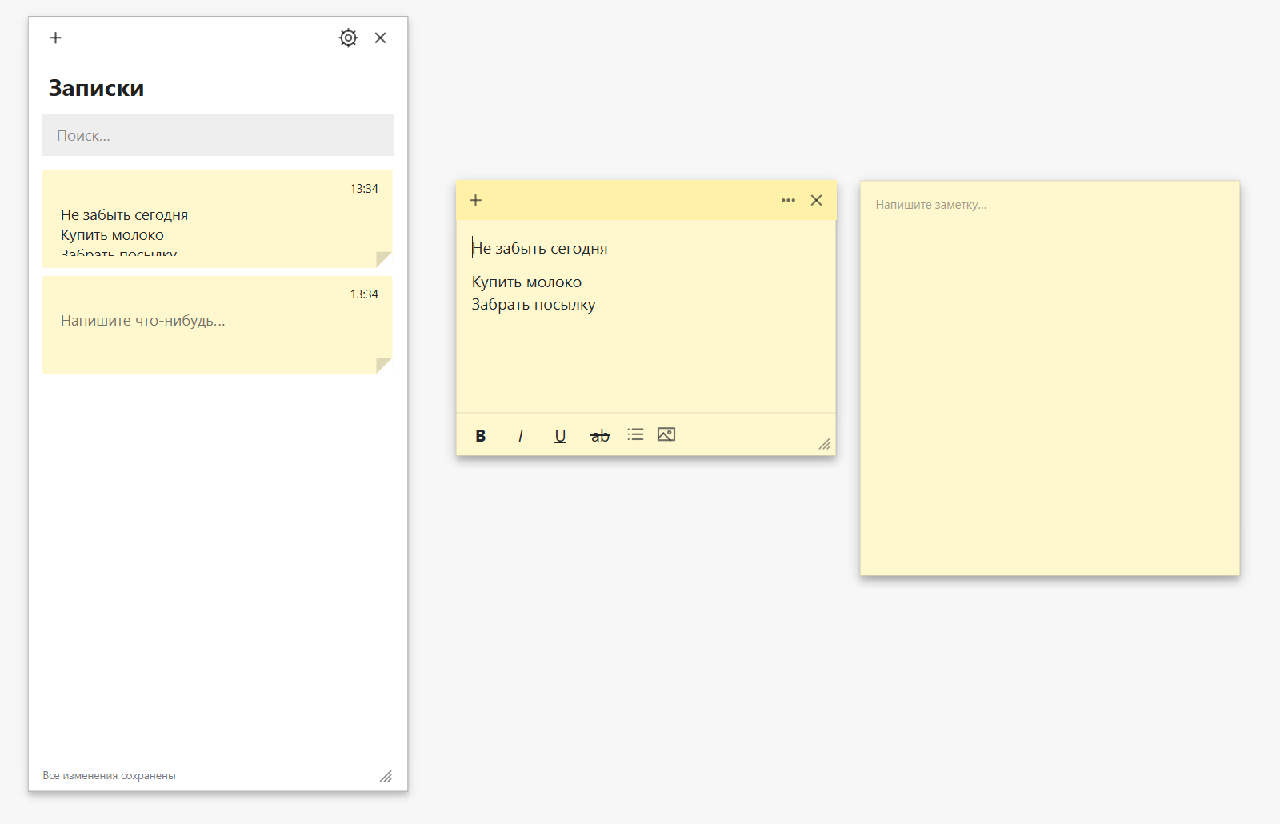
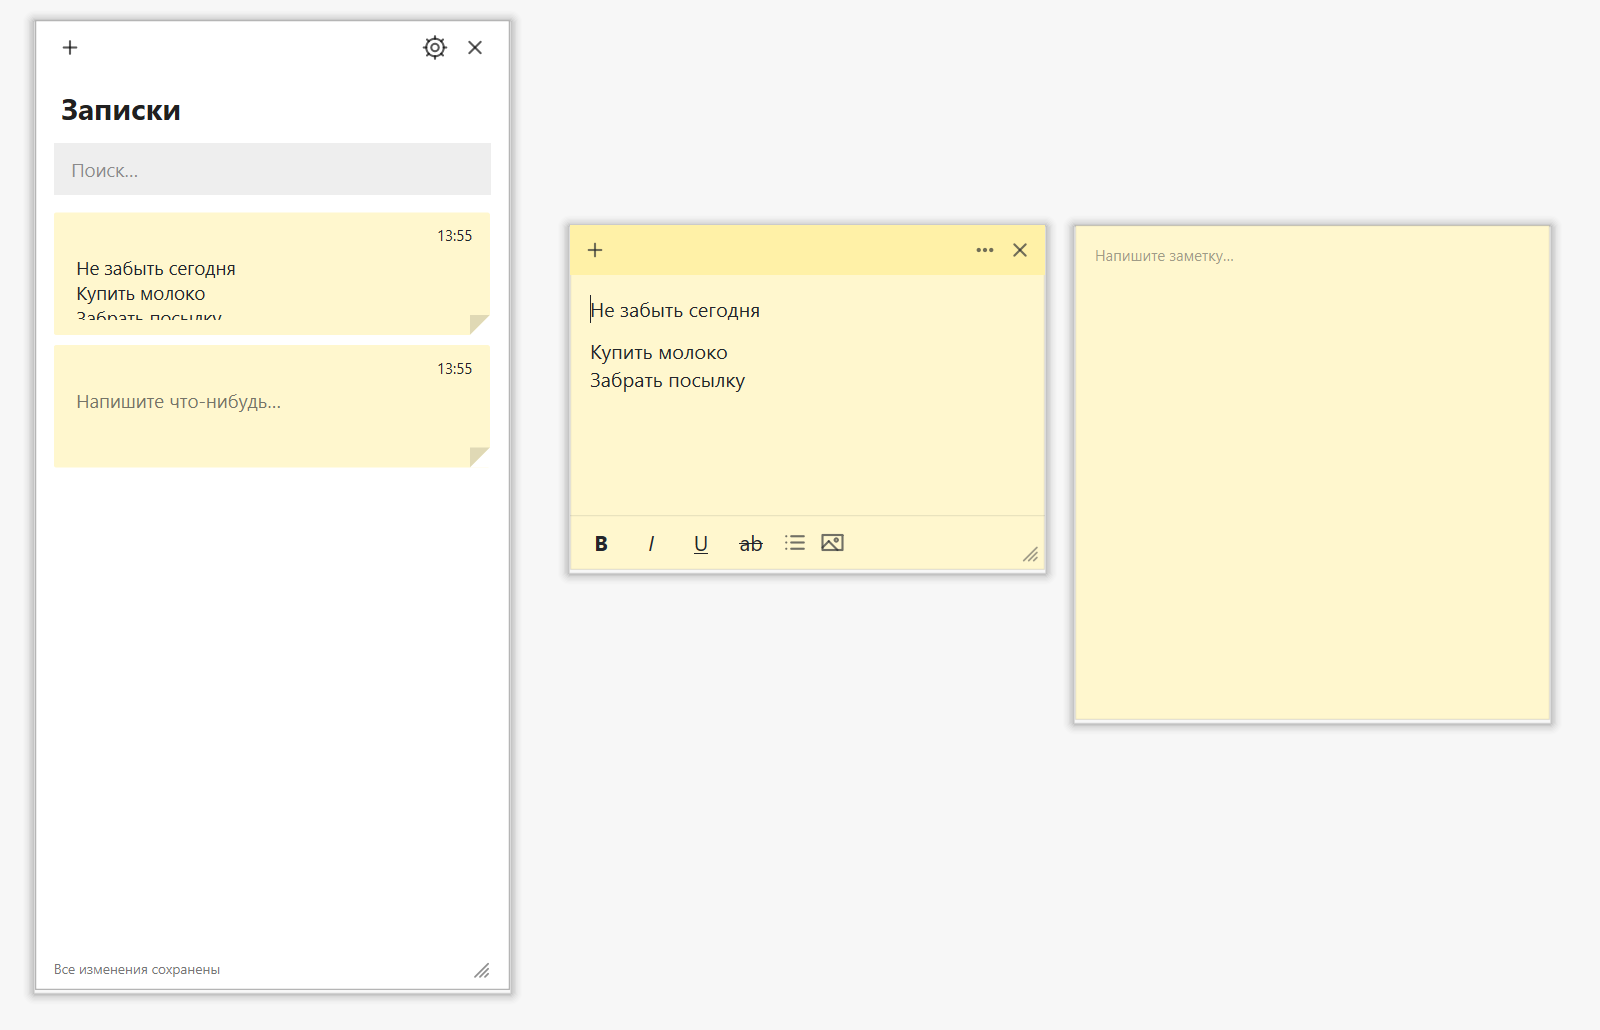
fix: paint window shadows outside text containers
Container-wide QGraphicsDropShadowEffect corrupts partial glyph repaints on translucent Windows windows at fractional DPI. Paint the outer shadow separately and check native screen pixels through edits, search, collapse, and resize. Verified at 125, 150, and 200 percent scaling.

diff --git a/tests/windows_rendering_check.py b/tests/windows_rendering_check.py
@@ -1,0 +1,116 @@
+"""Check actual Windows pixels; QWidget.grab() hides partial-repaint artifacts.
+
+Run with the build dependencies installed: python tests/windows_rendering_check.py
+Only temporary test windows and fixture text are captured, without real note data.
+"""
+from __future__ import annotations
+
+import ctypes
+from ctypes import wintypes
+from pathlib import Path
+import sys
+
+sys.path.insert(0, str(Path(__file__).resolve().parents[1]))
+
+from PIL import ImageChops, ImageGrab
+from PySide6.QtCore import QPoint, Qt
+from PySide6.QtGui import QGuiApplication
+from PySide6.QtTest import QTest
+from PySide6.QtWidgets import QApplication
+
+from config import DEFAULTS
+from note_window import M, NoteWindow, new_note_data
+from notes_list import NotesListWindow
+
+
+def screen_pixels(widget):
+    """Capture the compositor output without forcing Qt to repaint the widget."""
+    rect = wintypes.RECT()
+    ctypes.windll.user32.GetWindowRect(wintypes.HWND(int(widget.winId())), ctypes.byref(rect))
+    image = ImageGrab.grab(
+        bbox=(rect.left, rect.top, rect.right, rect.bottom), include_layered_windows=True)
+    # Exclude the transparent outer margin, where other applications may change.
+    margin = round(M * image.width / widget.width()) + 1
+    return image.crop((margin, margin, image.width - margin, image.height - margin))
+
+
+def main():
+    if sys.platform != "win32":
+        raise SystemExit("This check requires a Windows desktop.")
+    QGuiApplication.setHighDpiScaleFactorRoundingPolicy(
+        Qt.HighDpiScaleFactorRoundingPolicy.PassThrough)
+    qt = QApplication([])
+    qt.setStyle("Fusion")
+    qt.setQuitOnLastWindowClosed(False)
+    qt.setCursorFlashTime(0)
+    print(f"Windows scale: {qt.primaryScreen().devicePixelRatio():g}")
+    # Keep chrome fixed to isolate glyph corruption from intentional animations.
+    settings = dict(DEFAULTS, hover_controls=False)
+    note = NoteWindow(new_note_data(settings), settings)
+    library = NotesListWindow()
+    sample = "Render test ABC 0123456789\nSecond line / Проверка текста"
+    note.editor.setPlainText(sample)
+    note.editor.setReadOnly(True)
+    library.set_notes([{
+        "id": "fixture", "color": "#FFF7CE", "preview": sample,
+        "updated_at": "2026-10-31T13:00:00+00:00",
+    }])
+    library.search.setReadOnly(True)
+    library.resize(404, 430)
+    area = qt.primaryScreen().availableGeometry()
+    library.move(area.left() + 24, area.top() + 24)
+    note.move(area.left() + 460, area.top() + 24)
+    windows = {"note": note, "library": library}
+    try:
+        for widget in windows.values():
+            widget.setWindowFlag(Qt.WindowStaysOnTopHint, True)
+            widget.show()
+        QTest.mouseMove(library.header, QPoint(100, 15))
+        QTest.qWait(700)
+        before = {name: screen_pixels(widget) for name, widget in windows.items()}
+        for _ in range(3):
+            library.search.setText("no matching note")
+            note.editor.clear()
+            QTest.qWait(80)
+            library.search.clear()
+            note.editor.setPlainText(sample)
+            QTest.qWait(100)
+        note_size = note.size()
+        library_size = library.size()
+        note.set_collapsed(True)
+        QTest.qWait(180)
+        note.set_collapsed(False)
+        note.resize(note_size.width() + 45, note_size.height() + 37)
+        library.resize(library_size.width() + 45, library_size.height() + 37)
+        QTest.qWait(100)
+        note.resize(note_size)
+        library.resize(library_size)
+        QTest.qWait(250)
+        failures = []
+        for name, widget in windows.items():
+            after = screen_pixels(widget)
+            difference = ImageChops.difference(before[name], after)
+            # Histogram counts pixels changed in any color channel, independent
+            # of antialiasing intensity. Identical UI must produce identical pixels.
+            mask = difference.point(lambda value: 255 if value else 0).convert("L")
+            changed = mask.width * mask.height - mask.histogram()[0]
+            print(f"{name}: {changed} changed pixels after restoring identical content")
+            if changed:
+                artifacts = Path(__file__).resolve().parents[1] / "build" / "rendering-check"
+                artifacts.mkdir(parents=True, exist_ok=True)
+                before[name].save(artifacts / f"{name}-before.png")
+                after.save(artifacts / f"{name}-after.png")
+                difference.save(artifacts / f"{name}-difference.png")
+                failures.append(name)
+        if failures:
+            raise AssertionError("Stale pixels in: " + ", ".join(failures))
+        print("Windows rendering: PASS")
+    finally:
+        for widget in windows.values():
+            widget.hide()
+            widget.deleteLater()
+        qt.processEvents()
+
+
+if __name__ == "__main__":
+    main()

diff --git a/note_window.py b/note_window.py
@@ -29,7 +29,6 @@ from PySide6.QtWidgets import (
     QColorDialog,
     QFileDialog,
     QFrame,
-    QGraphicsDropShadowEffect,
     QHBoxLayout,
     QLabel,
     QMenu,
@@ -90,6 +89,40 @@ class Card(QFrame):
         p.drawRoundedRect(QRectF(self.rect()).adjusted(0.5, 0.5, -0.5, -0.5), self.radius, self.radius)
 
 
+class PaperWindow(QWidget):
+    """Paint the shadow separately, without caching or resampling child text.
+
+    QGraphicsDropShadowEffect on a container corrupts partial text repaints on
+    translucent Windows windows at fractional DPI. Painting only the outer
+    shadow here keeps editors, lists, and controls on Qt's normal paint path.
+    """
+
+    def __init__(self):
+        super().__init__()
+        self.setAttribute(Qt.WA_TranslucentBackground)
+        self._shadow_enabled = True
+        self._shadow_radius = 0
+
+    def set_shadow(self, enabled: bool, radius: int = 0) -> None:
+        self._shadow_enabled = bool(enabled)
+        self._shadow_radius = radius
+        self.update()
+
+    def paintEvent(self, event):
+        if not self._shadow_enabled:
+            return
+        painter = QPainter(self)
+        painter.setRenderHint(QPainter.Antialiasing)
+        painter.setBrush(Qt.NoBrush)
+        surface = QRectF(self.rect()).adjusted(M, M, -M, -M).translated(0, 2)
+        for spread in range(M - 2, 0, -1):
+            alpha = round(48 * (1 - spread / (M - 1)) ** 2)
+            painter.setPen(QPen(QColor(0, 0, 0, alpha), 1.5))
+            radius = self._shadow_radius + spread
+            painter.drawRoundedRect(
+                surface.adjusted(-spread, -spread, spread, spread), radius, radius)
+
+
 class HeaderBar(QWidget):
     """Top bar: drag to move, double-click to collapse."""
 
@@ -141,7 +174,7 @@ class Grip(QSizeGrip):
             p.drawLine(QPointF(w - i, h - 2.5), QPointF(w - 2.5, h - i))
 
 
-class NoteWindow(QWidget):
+class NoteWindow(PaperWindow):
     changed = Signal()
     new_requested = Signal()
     delete_requested = Signal(object)
@@ -158,7 +191,6 @@ class NoteWindow(QWidget):
         self._title_text = ""
         self._expanded_h = int(data["h"])
 
-        self.setAttribute(Qt.WA_TranslucentBackground)
         self.setWindowTitle(APP_NAME)
         self.setMinimumSize(MIN_W, MIN_H)
         flags = Qt.FramelessWindowHint | Qt.Tool | Qt.NoDropShadowWindowHint
@@ -184,11 +216,6 @@ class NoteWindow(QWidget):
     def _build(self) -> None:
         self.card = Card(self)
         self.card.setObjectName("card")
-        self.shadow = QGraphicsDropShadowEffect(self.card)
-        self.shadow.setBlurRadius(26)
-        self.shadow.setOffset(0, 5)
-        self.shadow.setColor(QColor(0, 0, 0, 90))
-        self.card.setGraphicsEffect(self.shadow)
         outer = QVBoxLayout(self)
         outer.setContentsMargins(M, M, M, M)
         outer.addWidget(self.card)
@@ -358,7 +385,7 @@ class NoteWindow(QWidget):
         self.grip.color = QColor(text)
         self.grip.update()
 
-        self.shadow.setEnabled(bool(s["shadow"]))
+        self.set_shadow(bool(s["shadow"]), int(s["corner_radius"]))
         self.repaint_all()
         self._update_controls()
 

diff --git a/notes_list.py b/notes_list.py
@@ -6,11 +6,11 @@ from datetime import datetime
 from PySide6.QtCore import QRectF, QSize, Qt, Signal
 from PySide6.QtGui import QColor, QFont, QKeySequence, QPainter, QPainterPath, QPen, QShortcut
 from PySide6.QtWidgets import (
-    QAbstractItemView, QGraphicsDropShadowEffect, QHBoxLayout, QLabel, QLineEdit, QListWidget, QListWidgetItem,
-    QMenu, QStyle, QStyledItemDelegate, QVBoxLayout, QWidget,
+    QAbstractItemView, QHBoxLayout, QLabel, QLineEdit, QListWidget, QListWidgetItem,
+    QMenu, QStyle, QStyledItemDelegate, QVBoxLayout,
 )
 
-from note_window import Card, Grip, HeaderBar, M
+from note_window import Card, Grip, HeaderBar, M, PaperWindow
 from themes import MENU_QSS, auto_text
 from widgets import IconButton
 
@@ -74,7 +74,7 @@ class NoteDelegate(QStyledItemDelegate):
         painter.restore()
 
 
-class NotesListWindow(QWidget):
+class NotesListWindow(PaperWindow):
     new_requested = Signal()
     settings_requested = Signal()
     open_requested = Signal(str)
@@ -84,7 +84,6 @@ class NotesListWindow(QWidget):
         super().__init__()
         self.setWindowTitle("Записки")
         self.setWindowFlags(Qt.Window | Qt.FramelessWindowHint)
-        self.setAttribute(Qt.WA_TranslucentBackground)
         self.setMinimumSize(320, 400)
         self.resize(404, 710)
         self._notes = []
@@ -103,11 +102,6 @@ class NotesListWindow(QWidget):
         outer.setContentsMargins(M, M, M, M)
         self.card = Card()
         self.card.set_look(QColor("white"), QColor("#B5B5B5"), 0)
-        shadow = QGraphicsDropShadowEffect(self.card)
-        shadow.setBlurRadius(18)
-        shadow.setOffset(0, 3)
-        shadow.setColor(QColor(0, 0, 0, 65))
-        self.card.setGraphicsEffect(shadow)
         outer.addWidget(self.card)
         body = QVBoxLayout(self.card)
         body.setContentsMargins(15, 0, 15, 8)

diff --git a/README.md b/README.md
@@ -113,6 +113,15 @@ python -m unittest discover -s tests -v
 
 The tests use Qt's offscreen platform and temporary storage. They do not change real notes or Windows startup registration. They cover close/reopen across restarts, search, autosave, legacy data, formatting and embedded images, folding headers, duplication/deletion, and save errors.
 
+To check actual Windows rendering, including text artifacts at fractional display scales:
+
+```bash
+python -m pip install -r requirements-build.txt
+python tests/windows_rendering_check.py
+```
+
+This opens temporary fixture windows and compares their on-screen pixels before and after editing, search, collapse/expand, and resize. It does not load your notes. Unlike `QWidget.grab()`, this capture does not force a full repaint that could hide stale pixels. Shadows are painted separately from the content so Qt does not cache and resample text through a graphics effect.
+
 ## Project structure
 
 ```
